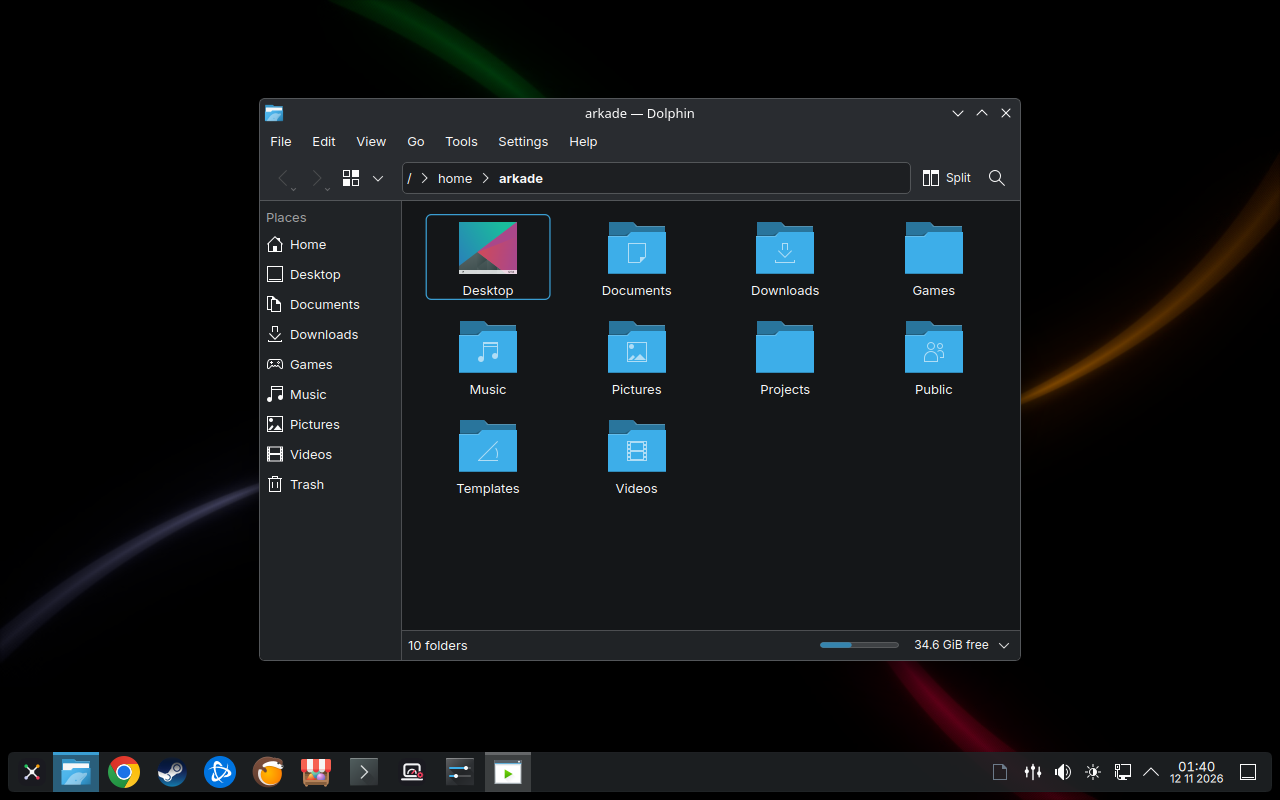
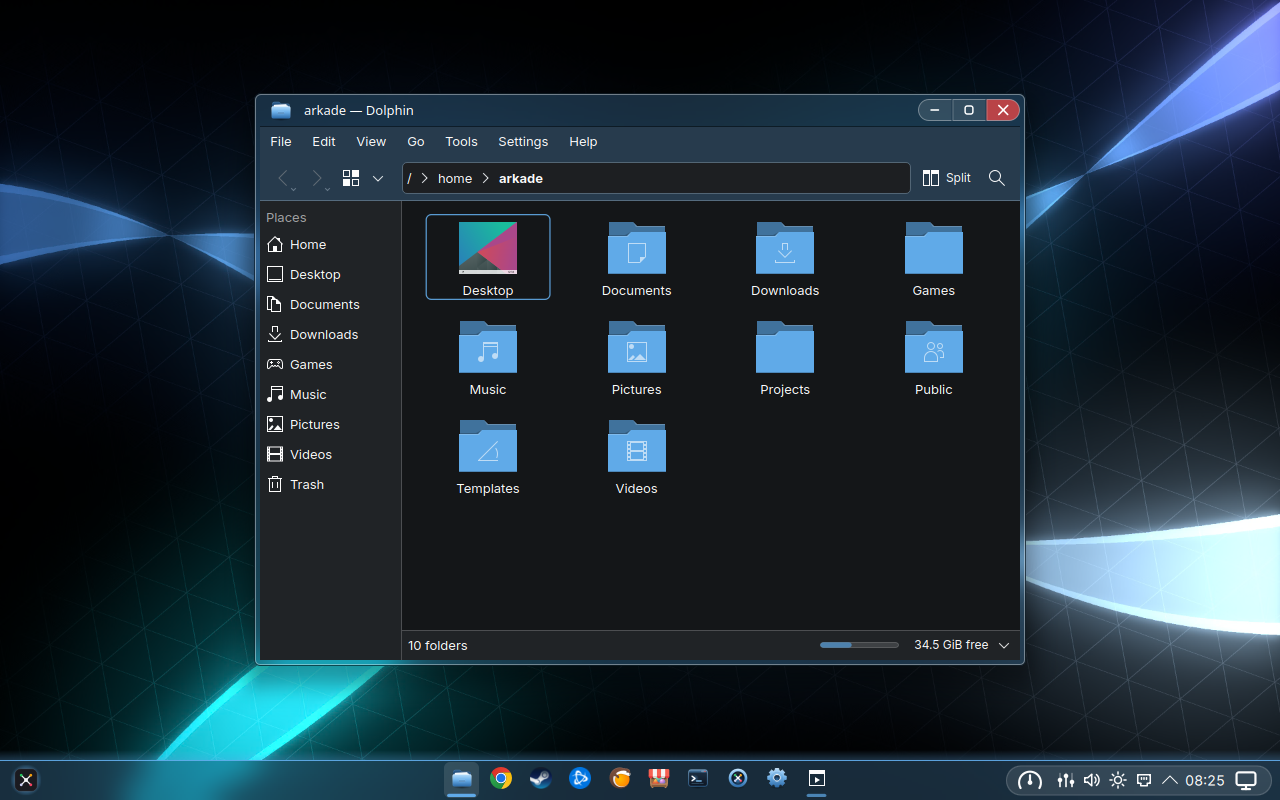
T086: README shows and names ArkadeOS Glass
Roland, 2026-11-14: "menjen persze ... nem fogunk visszaállni a breezere".
With the glass look going to main, the README no longer says Breeze.

- Why ArkadeOS and the feature row name ArkadeOS Glass: the glass look,
  wallpapers, app and tray icons, System Settings and the Portal in it.
- The five screenshots are from the 14 November VM run (ff3283c): the dark
  and light desktop, Quick Settings with the new theme previews, the Portal
  at the first login, the login screen.
- Project status: today's check counts (119 + 107 in the two VM halves).

diff --git a/README.md b/README.md
@@ -12,7 +12,7 @@ A clean KDE Plasma desktop, one image for NVIDIA, AMD and Intel graphics, Steam 
 ## Why ArkadeOS
 
 - **Built for games only.** No background indexing, no services you don't need. The kernel, scheduler and power settings are tuned for low latency and high frame rates.
-- **KDE Plasma as KDE made it.** The Breeze look, light and dark, one taskbar at the bottom, menus in the windows, quick search on Meta+Space, window snapping, Alt+Tab previews, clipboard history.
+- **KDE Plasma in ArkadeOS Glass.** Our own sky-blue glass look, light and dark: one glass taskbar at the bottom with the pinned apps in the middle, ArkadeOS's own app and tray icons. Menus in the windows, quick search on Meta+Space, window snapping, Alt+Tab previews, clipboard history.
 - **Can't be broken by an update.** The whole system is one image. A bad update? Reboot and pick the previous one.
 - **One image for every gaming graphics card.** NVIDIA, AMD and Intel: the NVIDIA driver is built in and only runs where an NVIDIA card is. See [Supported graphics cards](#supported-graphics-cards).
 
@@ -35,7 +35,7 @@ A clean KDE Plasma desktop, one image for NVIDIA, AMD and Intel graphics, Steam 
 | 💻 | MSI (msi-ec, MControlCenter), Lenovo Legion (LenovoLegionLinux); battery care at 80% | implemented |
 | 🌈 | RGB that follows the power profile (OpenRGB, ASUS Aura) | implemented |
 | 🖱 | Logitech and Razer mice, ASUS ROG keyboards, monitor control, LACT for the graphics card | implemented |
-| 🖥 | KDE Plasma 6 with Breeze, light and dark switching by the time of day, one taskbar | implemented |
+| 🖥 | KDE Plasma 6 in ArkadeOS Glass: own glass look, wallpapers, app and tray icons, System Settings and Portal in the same look; light and dark switching by the time of day, one taskbar | implemented |
 | 📌 | Anything pinned on the taskbar stays there: Steam games, Windows programs, Chrome web apps | implemented |
 | 🧩 | ArkadeOS Portal: pick apps at first login, add or remove anything later | implemented |
 | 🤖 | Optional AI tools: Claude and Codex, desktop apps and command line | implemented |
@@ -53,7 +53,7 @@ A clean KDE Plasma desktop, one image for NVIDIA, AMD and Intel graphics, Steam 
 | ![ArkadeOS Portal at the first login: tick what you want](art/screenshots/portal.png) | ![Login screen](art/screenshots/login.png) |
 | ArkadeOS Portal at the first login: tick what you want, change it any time | Login screen |
 
-Taken automatically from the 12 November 2026 build in a virtual machine (1280×800 screen).
+Taken automatically from the 14 November 2026 build in a virtual machine (1280×800 screen).
 
 ## Supported graphics cards
 
@@ -99,15 +99,15 @@ The ArkadeOS Portal does the same from a window, and also switches the channel (
 
 ## Project status
 
-*Updated 12 November 2026.*
+*Updated 14 November 2026.*
 
 **Built on Fedora 45 since 12 November 2026:** Bazzite's Fedora 45 base with kernel 7.3, KDE Plasma 6.8, Mesa 26.2 and NVIDIA driver 620. The stable channel gets it three days later. An update that changes only ArkadeOS's own files downloads about 7 MB of the 6 GB image.
 
-**Every build is tested automatically.** Each change to `main` builds the image and boots it in a virtual machine that logs in, opens the apps, switches the looks and profiles, starts a Windows program under Proton, updates and rolls back. A separate test installs ArkadeOS from the ISO onto an encrypted disk and boots the installed system. Latest results (12 November 2026):
+**Every build is tested automatically.** Each change to `main` builds the image and boots it in a virtual machine that logs in, opens the apps, switches the looks and profiles, starts a Windows program under Proton, updates and rolls back. A separate test installs ArkadeOS from the ISO onto an encrypted disk and boots the installed system. Latest results (14 November 2026):
 
 | Test | Checks | Result |
 |---|---|---|
-| `arkadeos` image in a VM | 191 | ✅ all pass |
+| `arkadeos` image in a VM | 226 | ✅ all pass |
 | Optional apps from the Portal | 18 | ✅ all pass |
 | Update from the previous build | 12 | ✅ all pass |
 | Install from the ISO (encryption, TPM unlock, Intel RST, download progress) | 42 | ✅ all pass (9 November) |
